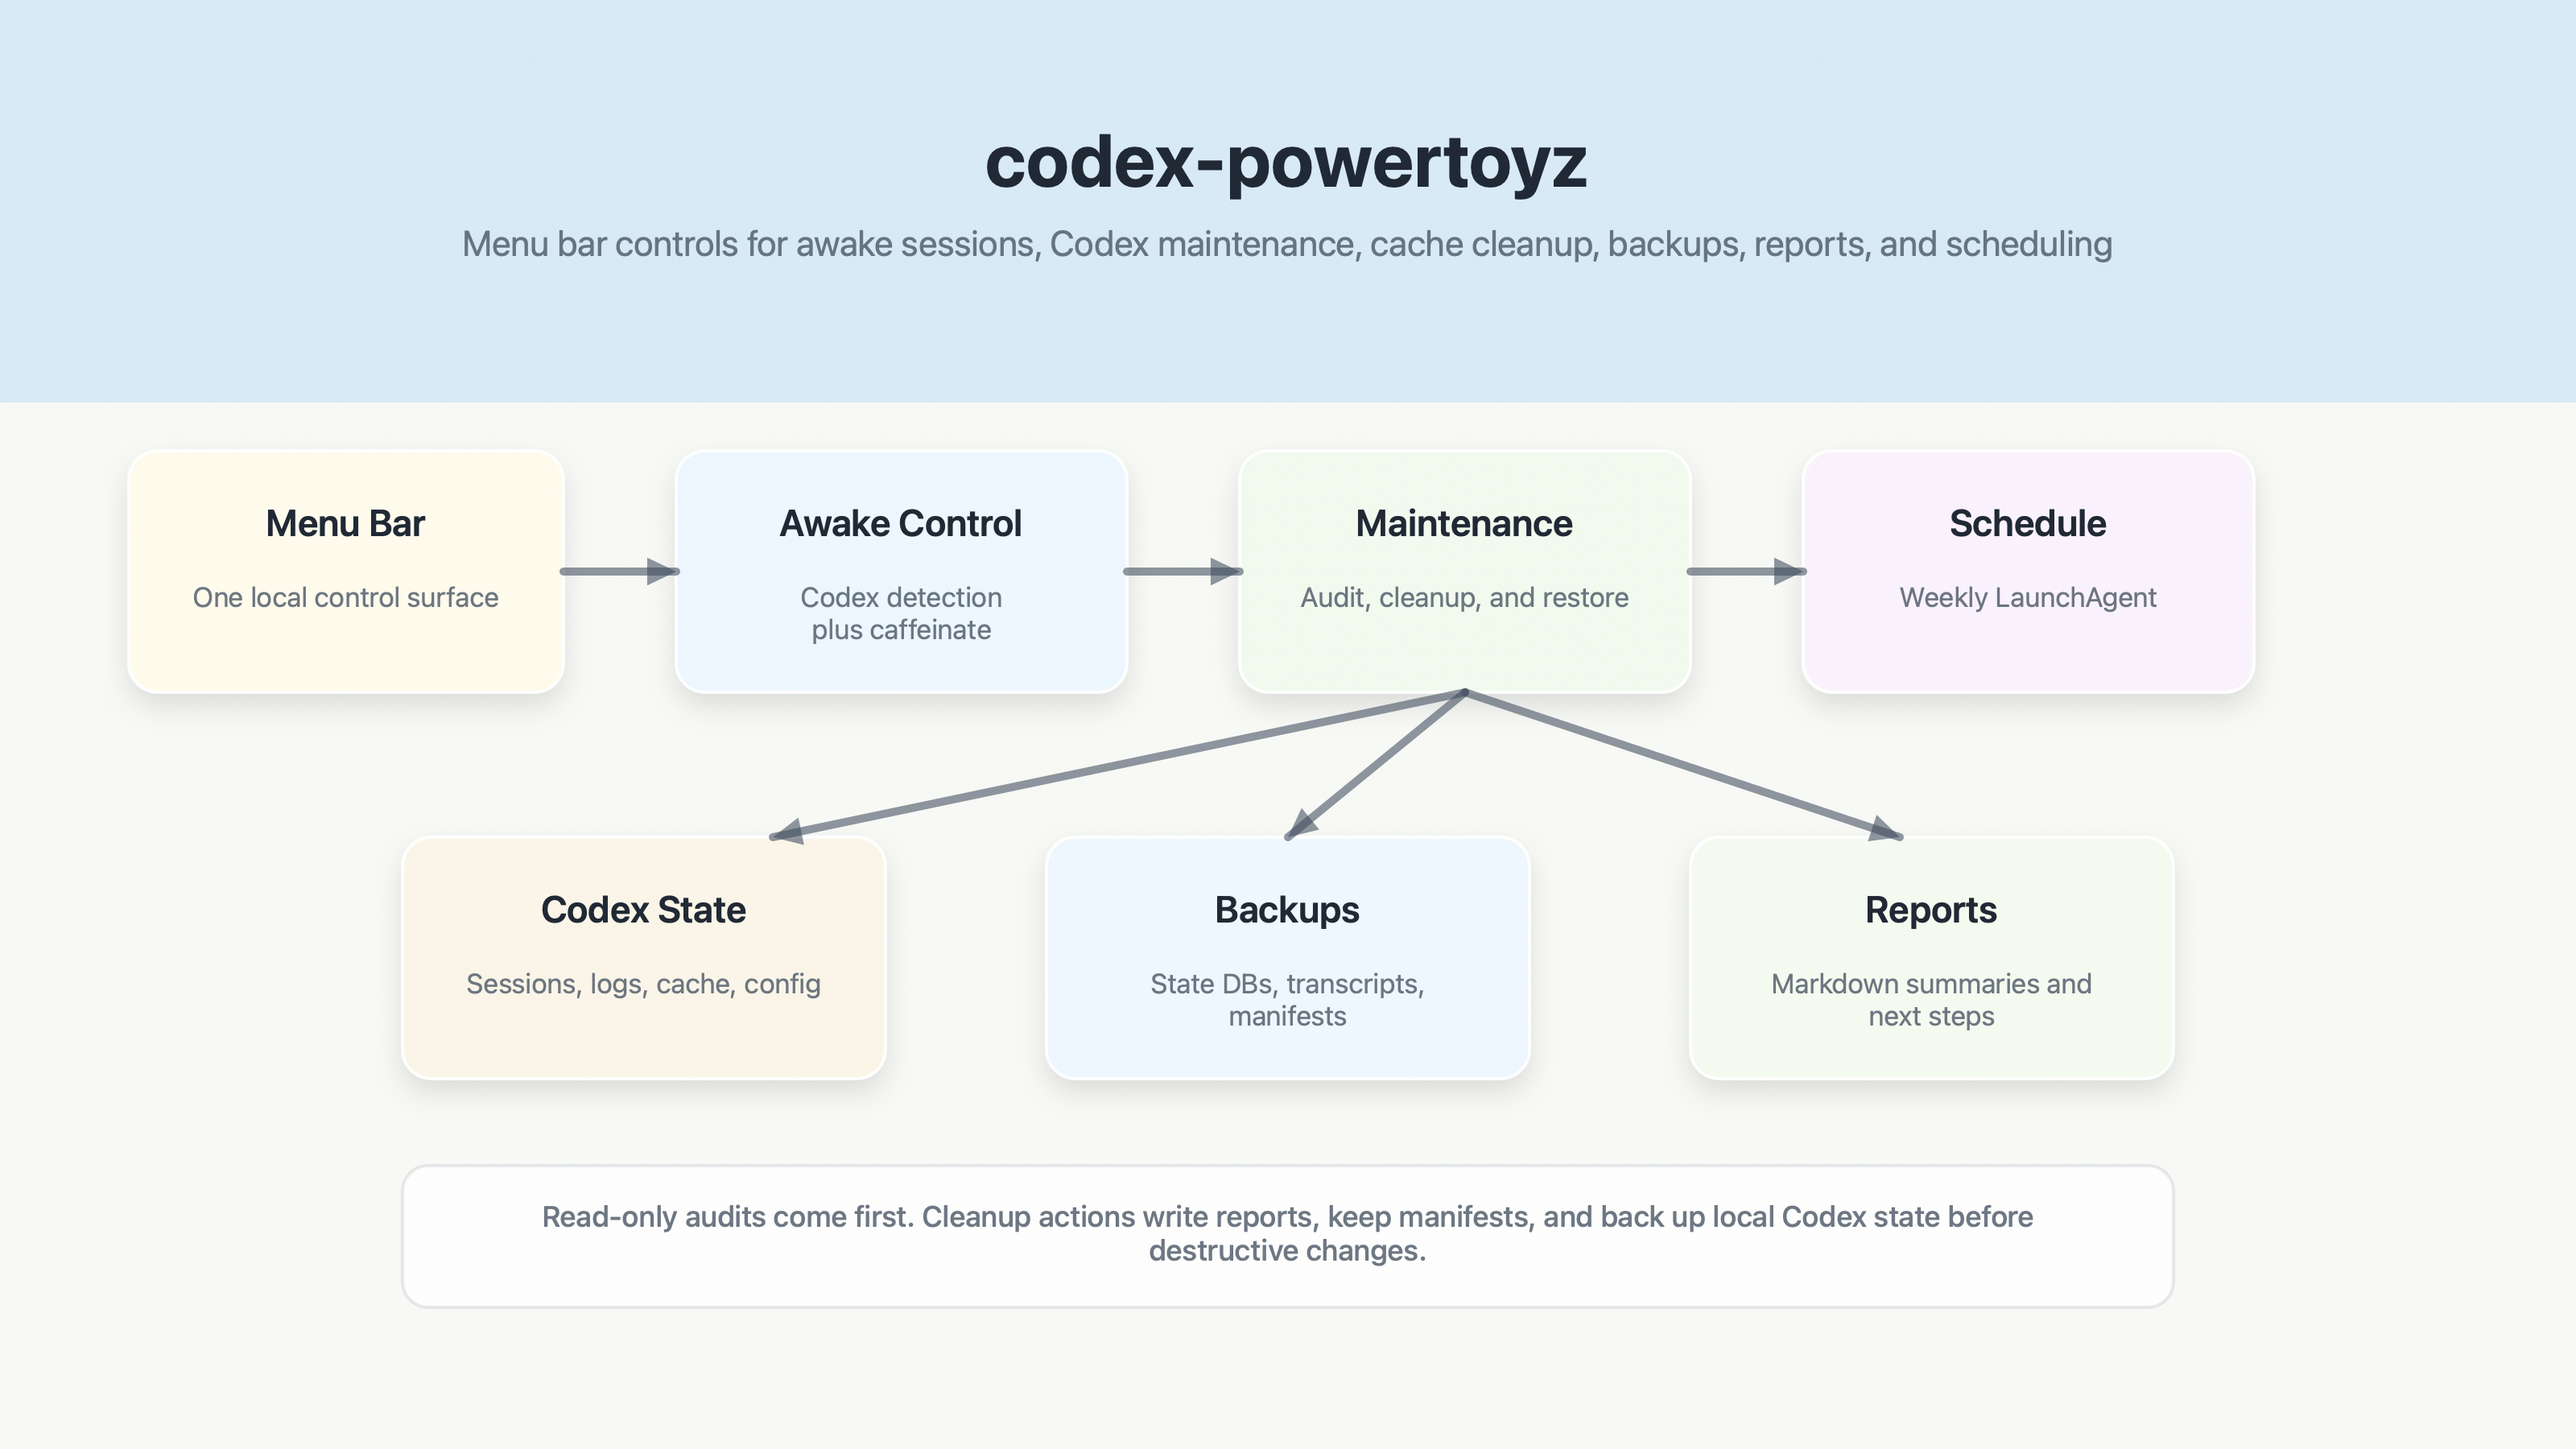
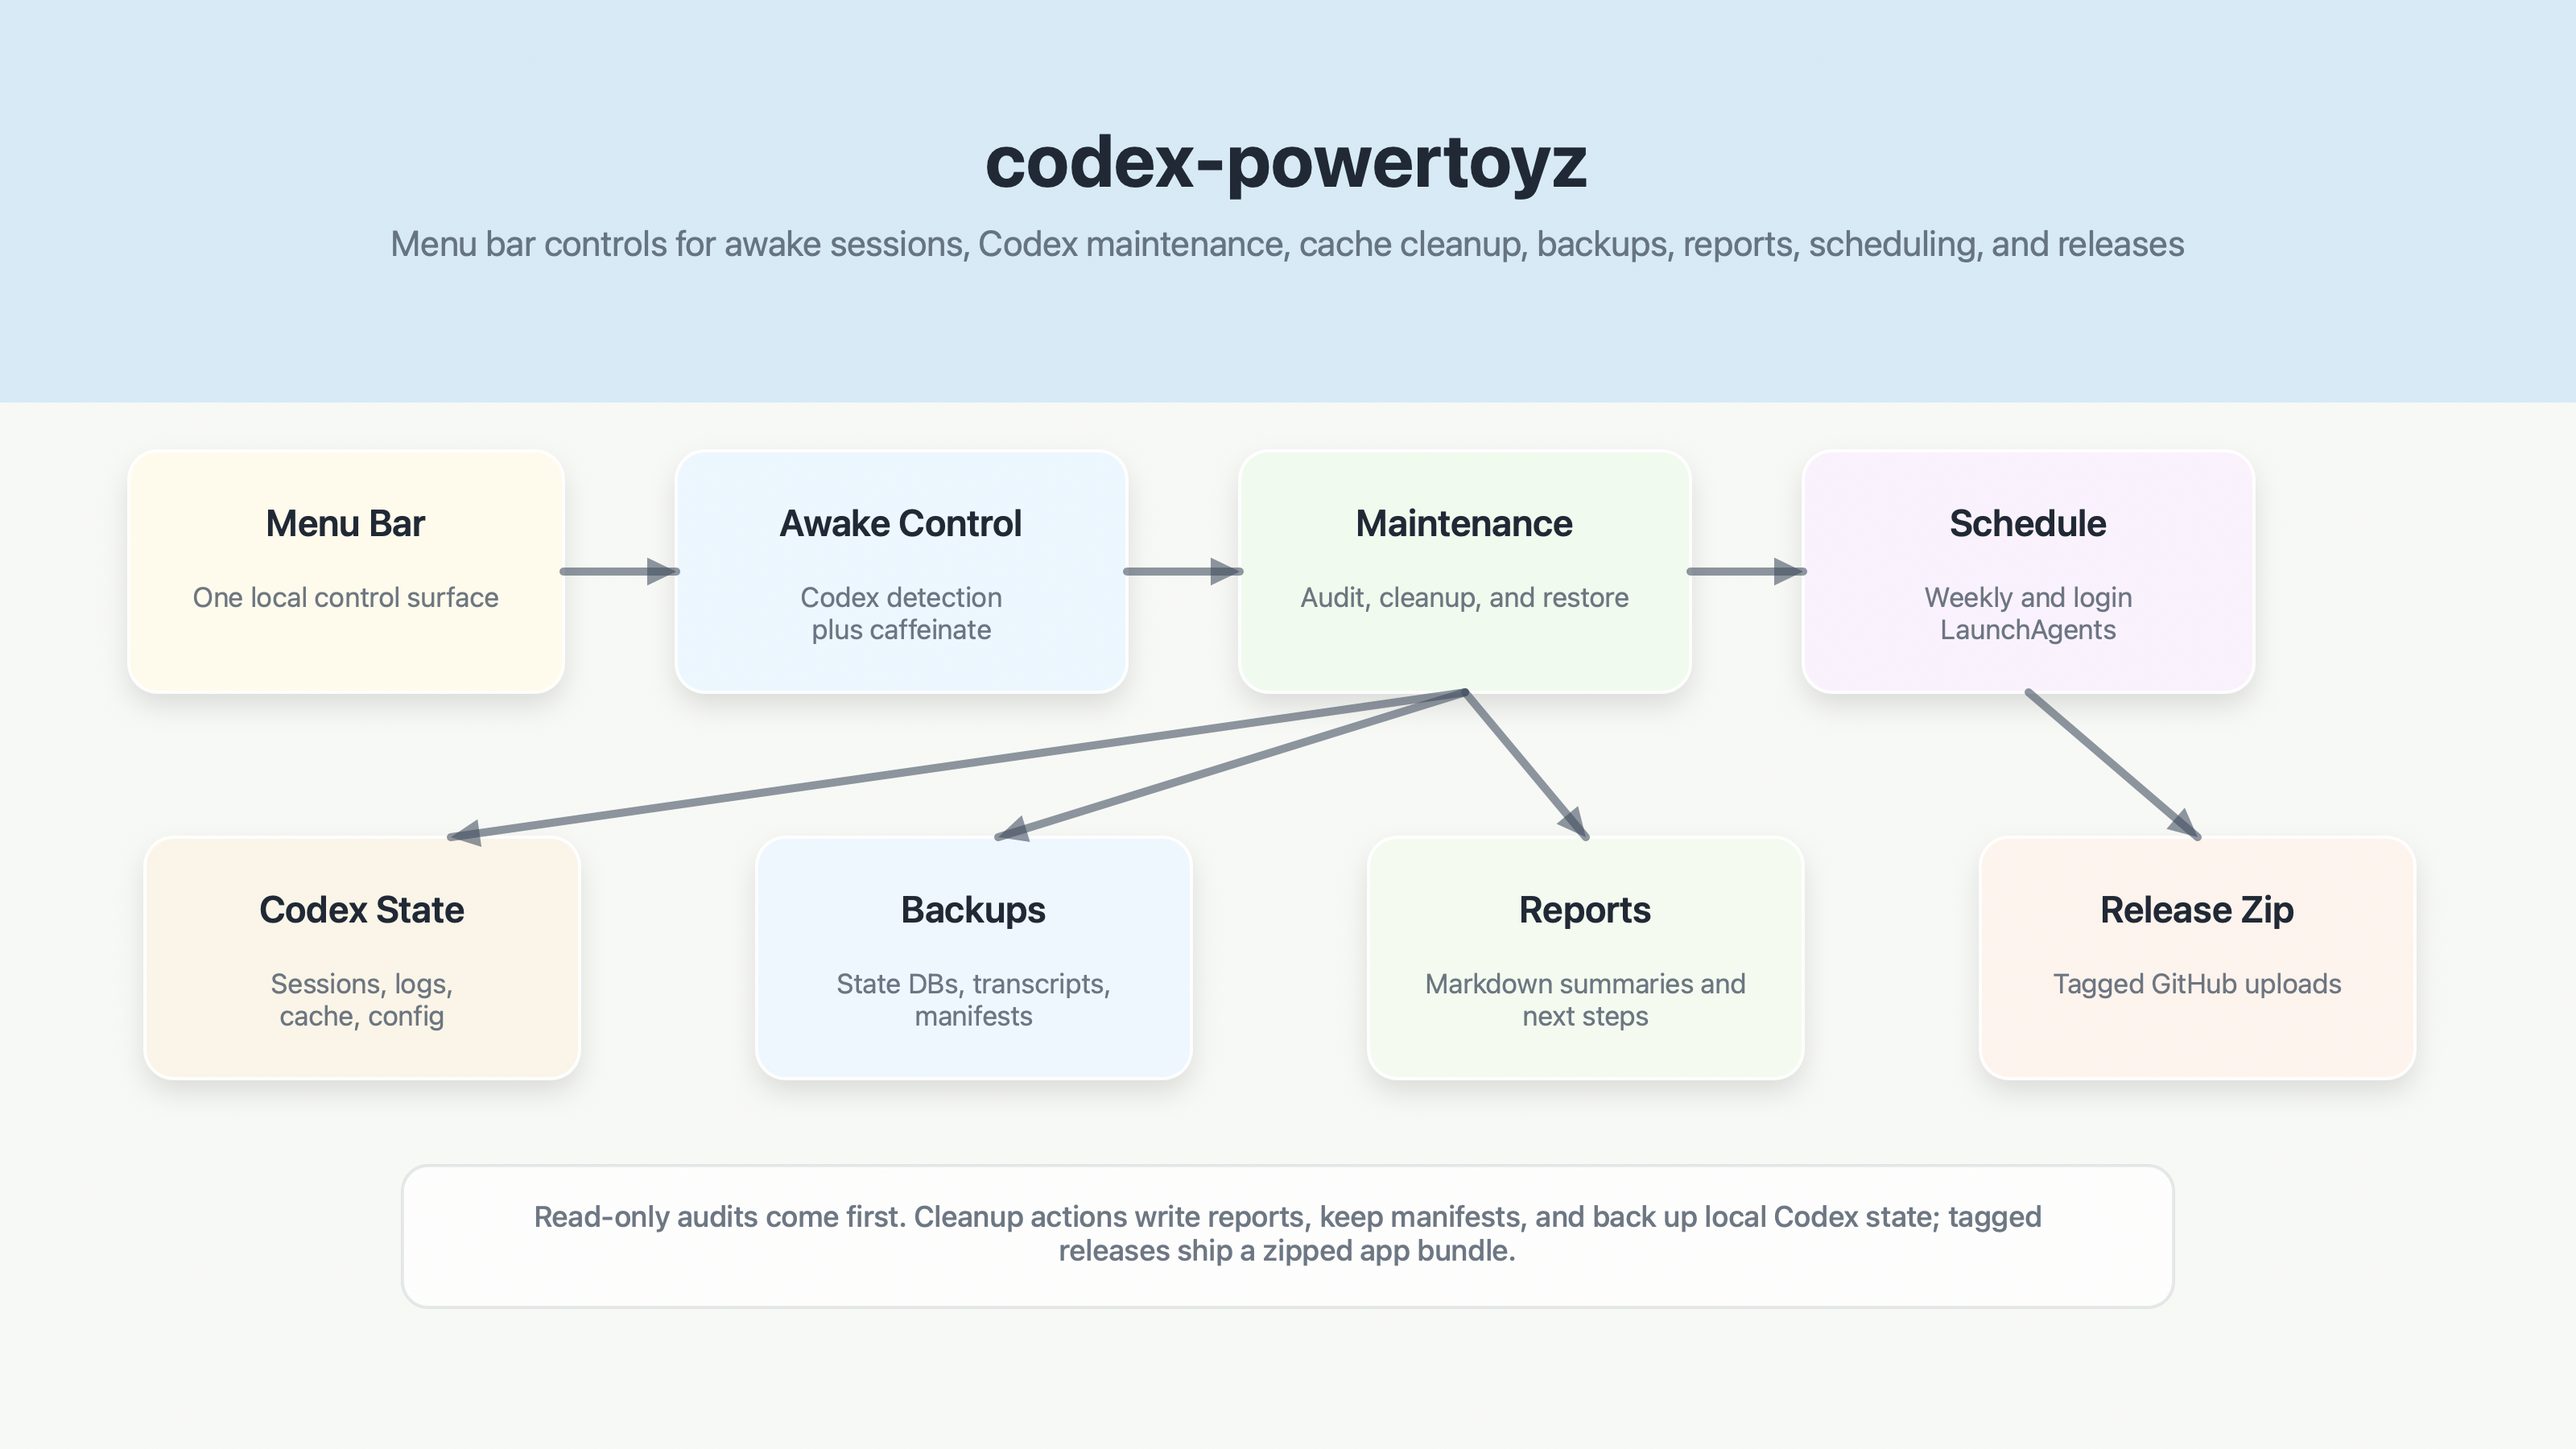
Add release packaging and installer

diff --git a/script/render_readme_graphics.swift b/script/render_readme_graphics.swift
@@ -112,7 +112,7 @@ drawText(
   weight: .bold
 )
 drawText(
-  "Menu bar controls for awake sessions, Codex maintenance, cache cleanup, backups, reports, and scheduling",
+  "Menu bar controls for awake sessions, Codex maintenance, cache cleanup, backups, reports, scheduling, and releases",
   in: NSRect(x: 190, y: 724, width: 1220, height: 38),
   size: 22,
   weight: .regular,
@@ -140,7 +140,7 @@ let topBoxes = [
   ),
   Box(
     title: "Schedule",
-    subtitle: "Weekly LaunchAgent",
+    subtitle: "Weekly and login LaunchAgents",
     rect: NSRect(x: 1120, y: 470, width: 280, height: 150),
     fill: NSColor(calibratedRed: 0.98, green: 0.93, blue: 0.99, alpha: 1)
   )
@@ -150,20 +150,26 @@ let bottomBoxes = [
   Box(
     title: "Codex State",
     subtitle: "Sessions, logs, cache, config",
-    rect: NSRect(x: 250, y: 230, width: 300, height: 150),
+    rect: NSRect(x: 90, y: 230, width: 270, height: 150),
     fill: NSColor(calibratedRed: 0.98, green: 0.95, blue: 0.88, alpha: 1)
   ),
   Box(
     title: "Backups",
     subtitle: "State DBs, transcripts, manifests",
-    rect: NSRect(x: 650, y: 230, width: 300, height: 150),
+    rect: NSRect(x: 470, y: 230, width: 270, height: 150),
     fill: NSColor(calibratedRed: 0.91, green: 0.96, blue: 1.00, alpha: 1)
   ),
   Box(
     title: "Reports",
     subtitle: "Markdown summaries and next steps",
-    rect: NSRect(x: 1050, y: 230, width: 300, height: 150),
+    rect: NSRect(x: 850, y: 230, width: 270, height: 150),
     fill: NSColor(calibratedRed: 0.94, green: 0.98, blue: 0.92, alpha: 1)
+  ),
+  Box(
+    title: "Release Zip",
+    subtitle: "Tagged GitHub uploads",
+    rect: NSRect(x: 1230, y: 230, width: 270, height: 150),
+    fill: NSColor(calibratedRed: 1.00, green: 0.94, blue: 0.91, alpha: 1)
   )
 ]
 
@@ -174,9 +180,10 @@ for box in topBoxes + bottomBoxes {
 drawArrow(from: NSPoint(x: 350, y: 545), to: NSPoint(x: 420, y: 545))
 drawArrow(from: NSPoint(x: 700, y: 545), to: NSPoint(x: 770, y: 545))
 drawArrow(from: NSPoint(x: 1050, y: 545), to: NSPoint(x: 1120, y: 545))
-drawArrow(from: NSPoint(x: 910, y: 470), to: NSPoint(x: 480, y: 380))
-drawArrow(from: NSPoint(x: 910, y: 470), to: NSPoint(x: 800, y: 380))
-drawArrow(from: NSPoint(x: 910, y: 470), to: NSPoint(x: 1180, y: 380))
+drawArrow(from: NSPoint(x: 910, y: 470), to: NSPoint(x: 280, y: 380))
+drawArrow(from: NSPoint(x: 910, y: 470), to: NSPoint(x: 620, y: 380))
+drawArrow(from: NSPoint(x: 910, y: 470), to: NSPoint(x: 985, y: 380))
+drawArrow(from: NSPoint(x: 1260, y: 470), to: NSPoint(x: 1365, y: 380))
 
 let noteRect = NSRect(x: 250, y: 88, width: 1100, height: 88)
 let notePath = NSBezierPath(roundedRect: noteRect, xRadius: 16, yRadius: 16)
@@ -187,7 +194,7 @@ notePath.lineWidth = 2
 notePath.stroke()
 
 drawText(
-  "Read-only audits come first. Cleanup actions write reports, keep manifests, and back up local Codex state before destructive changes.",
+  "Read-only audits come first. Cleanup actions write reports, keep manifests, and back up local Codex state; tagged releases ship a zipped app bundle.",
   in: NSRect(x: noteRect.minX + 62, y: noteRect.minY + 25, width: noteRect.width - 124, height: 42),
   size: 18,
   weight: .medium,

diff --git a/README.md b/README.md
@@ -8,7 +8,7 @@ This is an unofficial local utility and is not affiliated with OpenAI.
 
 ## Architecture
 
-![codex-powertoyz architecture: the menu bar app coordinates awake controls, Codex detection, bundled maintenance helpers, backups, reports, weekly scheduling, local Codex state, archived sessions, workspace artifacts, and cache artifacts.](assets/readme/architecture-diagram.png)
+![codex-powertoyz architecture: the menu bar app coordinates awake controls, Codex detection, bundled maintenance helpers, backups, reports, weekly scheduling, GitHub Release packaging, local Codex state, archived sessions, workspace artifacts, and cache artifacts.](assets/readme/architecture-diagram.png)
 
 `codex-powertoyz` combines a few focused local tools:
 
@@ -17,6 +17,8 @@ This is an unofficial local utility and is not affiliated with OpenAI.
 - `codex_weekly_maintenance.py`: standalone weekly maintenance script for CLI use.
 - `codex-maintenance/`: installable Codex skill with its own weekly maintenance script copy.
 - `script/sync_maintenance_script.sh`: keeps weekly maintenance script copies identical.
+- `script/package_release.sh`: builds a release-mode app bundle and zips it for GitHub Releases.
+- `script/install_release.sh`: downloads the latest release zip, installs the app, and optionally enables start at login.
 - `tests/`: regression tests for audit, cleanup, restore, and lock behavior.
 
 The app launches bundled Python helpers for manual audits and cleanups, wraps macOS `caffeinate` for awake sessions, and can install a user LaunchAgent for weekly maintenance.
@@ -65,6 +67,41 @@ This does not change model speed, network latency, cloud service behavior, or th
 
 ## Install
 
+### Recommended: Latest GitHub Release
+
+Install the latest release with one command:
+
+```sh
+/bin/bash -c "$(curl -fsSL https://raw.githubusercontent.com/yashrajnayak/codex-powertoyz/main/script/install_release.sh)"
+```
+
+This downloads `codex-powertoyz-macos.zip` from the latest GitHub Release, installs the app to:
+
+```text
+~/Applications/codex-powertoyz.app
+```
+
+opens it, and enables start at login. Look for the wand icon near the clock.
+
+Useful installer options:
+
+```sh
+# install without enabling start at login
+/bin/bash -c "$(curl -fsSL https://raw.githubusercontent.com/yashrajnayak/codex-powertoyz/main/script/install_release.sh)" -- --no-login
+
+# install a specific release tag
+/bin/bash -c "$(curl -fsSL https://raw.githubusercontent.com/yashrajnayak/codex-powertoyz/main/script/install_release.sh)" -- --version v0.1.0
+
+# install somewhere else
+/bin/bash -c "$(curl -fsSL https://raw.githubusercontent.com/yashrajnayak/codex-powertoyz/main/script/install_release.sh)" -- --install-dir /Applications
+```
+
+You can also download `codex-powertoyz-macos.zip` from the latest GitHub Release, unzip it, and move `codex-powertoyz.app` into `~/Applications` or `/Applications`.
+
+Release builds are ad-hoc signed but not Apple notarized yet. If macOS blocks a browser-downloaded copy, right-click the app in Finder and choose `Open`; future notarized releases should remove that extra first-launch step.
+
+### From Source
+
 From this repo:
 
 ```sh
@@ -78,6 +115,23 @@ This builds the app, installs it to:
 ```
 
 and opens it. `install.sh` also enables start at login, so the menu bar app reappears after a restart.
+
+## Publishing a Release
+
+Create and push a version tag:
+
+```sh
+git tag v0.1.0
+git push origin v0.1.0
+```
+
+The `Release` GitHub Actions workflow runs validation, builds a release-mode app bundle, ad-hoc signs it, packages `dist/release/codex-powertoyz-macos.zip`, writes `dist/release/checksums.txt`, and uploads both files to a GitHub Release.
+
+You can produce the same release files locally:
+
+```sh
+./script/package_release.sh v0.1.0
+```
 
 ## Reopen After Quitting
 
